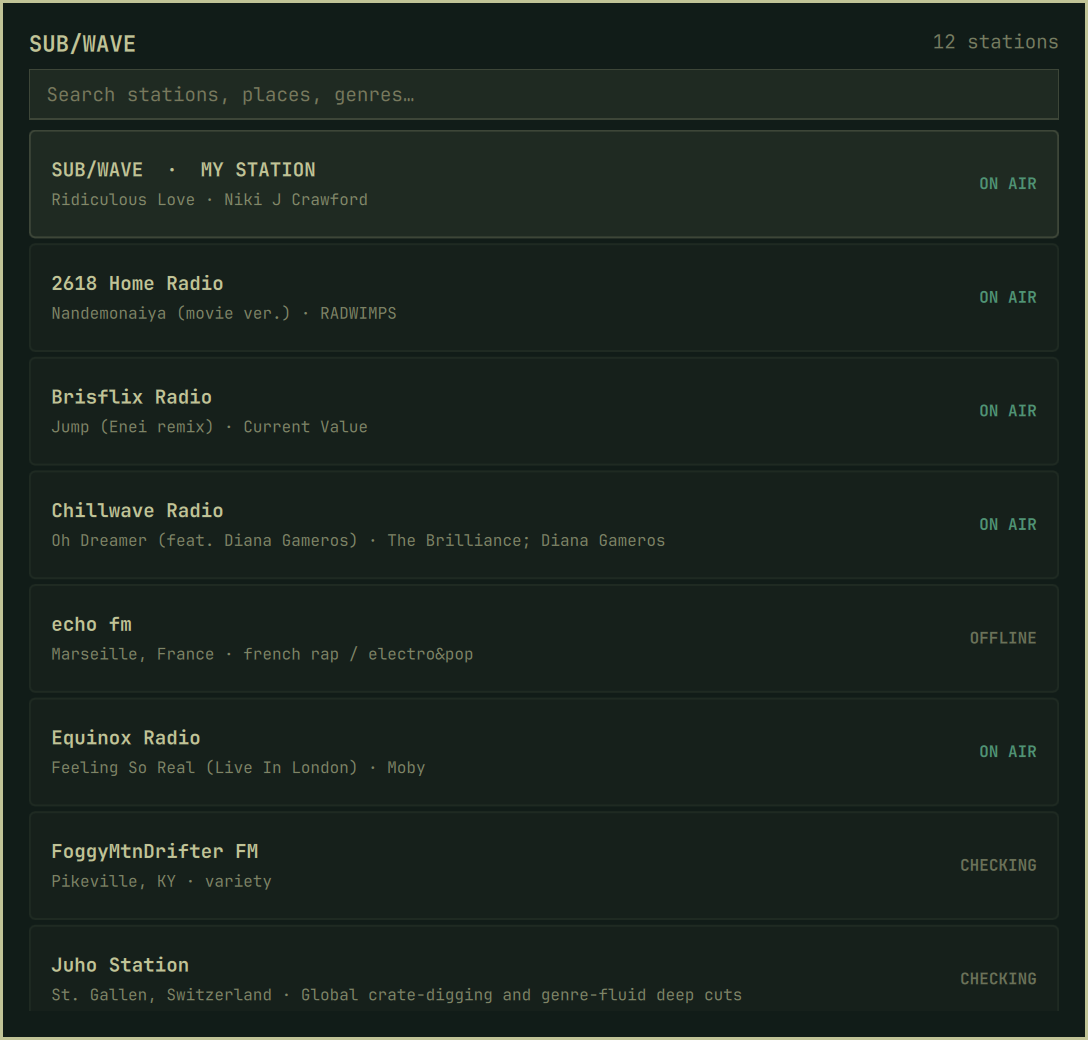
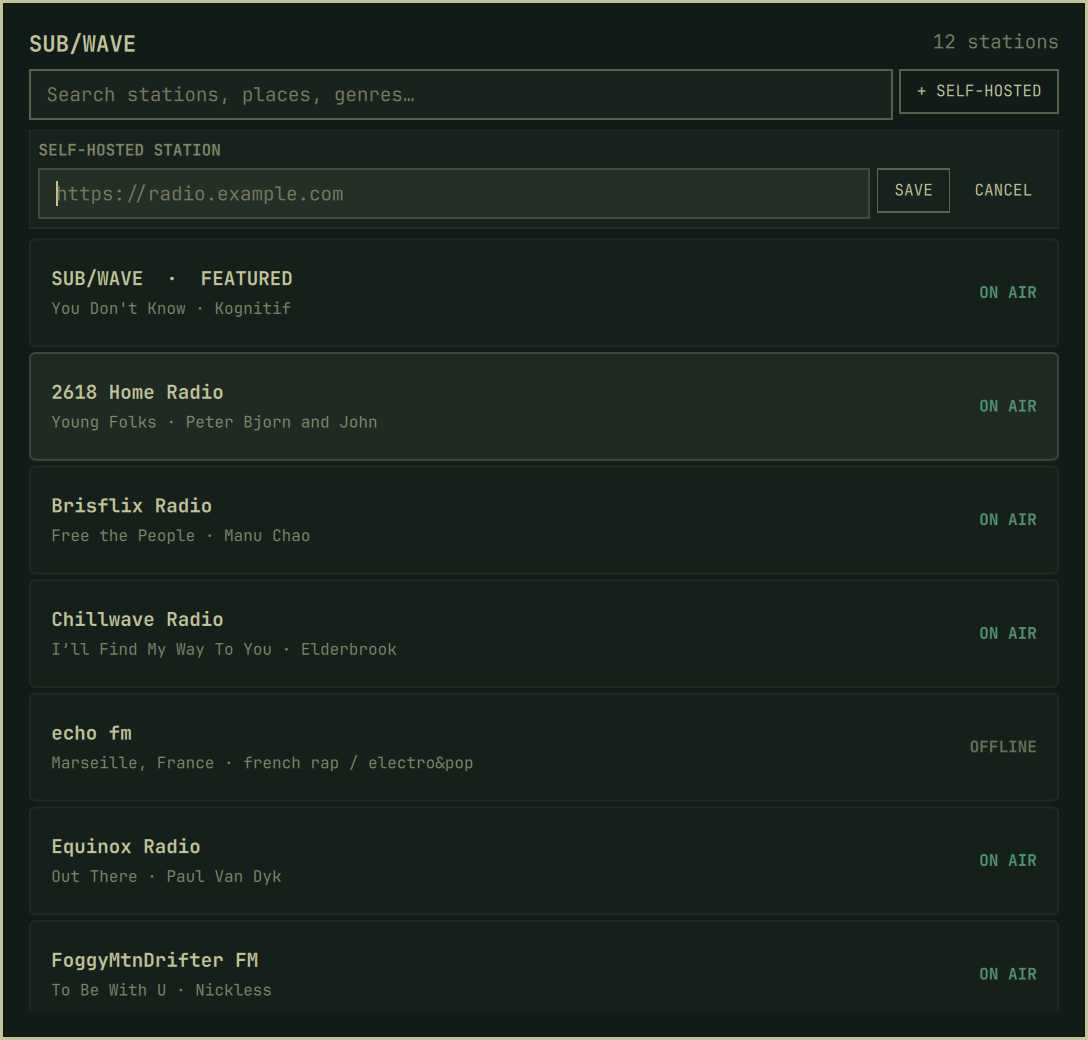
feat: configure self-hosted station in picker (#4)

diff --git a/StationPicker.qml b/StationPicker.qml
@@ -14,6 +14,10 @@ Item {
   property var manifest: null
   property bool opened: false
   property string configuredUrl: ""
+  property string configuredInput: ""
+  property bool editingConfigured: false
+  property bool savingConfigured: false
+  property string configuredError: ""
   property var allStations: []
   property string filterText: ""
   property int selectedIndex: 0
@@ -37,6 +41,10 @@ Item {
     var payload = ({})
     try { payload = JSON.parse(payloadJson || "{}") } catch (error) {}
     configuredUrl = StationModel.normalizeOrigin(payload.stationUrl || "")
+    configuredInput = configuredUrl
+    editingConfigured = false
+    savingConfigured = false
+    configuredError = ""
     opened = true
     errorText = ""
     filterText = ""
@@ -92,6 +100,44 @@ Item {
     filterText = StationModel.singleLine(value, 160)
     rebuildVisible()
     queueVisibleProbes()
+  }
+
+  function beginConfiguredEdit() {
+    configuredInput = configuredUrl
+    configuredError = ""
+    editingConfigured = true
+    Qt.callLater(function() { configuredField.forceActiveFocus() })
+  }
+
+  function cancelConfiguredEdit() {
+    configuredInput = configuredUrl
+    configuredError = ""
+    editingConfigured = false
+    Qt.callLater(function() { searchField.forceActiveFocus() })
+  }
+
+  function saveConfigured(value) {
+    if (settingProcess.running) return
+    var update = StationModel.configuredStationUpdate(value)
+    if (!update.ok) {
+      configuredError = update.error
+      return
+    }
+    configuredError = ""
+    savingConfigured = true
+    settingProcess.pendingUrl = update.url
+    settingProcess.command = update.command
+    settingProcess.running = true
+  }
+
+  function applyConfigured(url) {
+    configuredUrl = url
+    configuredInput = url
+    allStations = StationModel.mergeConfigured(allStations, configuredUrl)
+    rebuildVisible()
+    queueVisibleProbes()
+    editingConfigured = false
+    Qt.callLater(function() { searchField.forceActiveFocus() })
   }
 
   function moveSelection(delta) {
@@ -198,6 +244,19 @@ Item {
     }
   }
 
+  Process {
+    id: settingProcess
+    property string pendingUrl: ""
+    command: []
+    stdout: StdioCollector { id: settingOutput; waitForEnd: true }
+    stderr: StdioCollector { id: settingError; waitForEnd: true }
+    onExited: function(exitCode) {
+      root.savingConfigured = false
+      if (exitCode === 0) root.applyConfigured(pendingUrl)
+      else root.configuredError = StationModel.singleLine(settingError.text, 200) || "Could not save station setting"
+    }
+  }
+
   Timer {
     id: probeTimer
     interval: 30000
@@ -257,24 +316,147 @@ Item {
             horizontalAlignment: Text.AlignRight
           }
         }
-
-        TextField {
-          id: searchField
+        Row {
           width: parent.width
-          placeholderText: "Search stations, places, genres…"
-          foreground: root.foreground
-          accent: root.accent
-          font.family: Style.font.menuFamily
-          font.pixelSize: Style.font.body
-          onTextChanged: root.setFilter(text)
-          Keys.onPressed: function(event) {
-            if (event.key === Qt.Key_Down) { root.moveSelection(1); event.accepted = true }
-            else if (event.key === Qt.Key_Up) { root.moveSelection(-1); event.accepted = true }
-            else if (event.key === Qt.Key_Return || event.key === Qt.Key_Enter) { root.playSelected(); event.accepted = true }
-            else if (event.key === Qt.Key_Escape) {
-              if (text) text = ""
-              else root.dismiss()
-              event.accepted = true
+          spacing: Style.spacing.sm
+
+          TextField {
+            id: searchField
+            width: parent.width - configuredButton.width - parent.spacing
+            placeholderText: "Search stations, places, genres…"
+            foreground: root.foreground
+            accent: root.accent
+            font.family: Style.font.menuFamily
+            font.pixelSize: Style.font.body
+            onTextChanged: root.setFilter(text)
+            Keys.onPressed: function(event) {
+              if (event.key === Qt.Key_Down) { root.moveSelection(1); event.accepted = true }
+              else if (event.key === Qt.Key_Up) { root.moveSelection(-1); event.accepted = true }
+              else if (event.key === Qt.Key_Return || event.key === Qt.Key_Enter) { root.playSelected(); event.accepted = true }
+              else if (event.key === Qt.Key_Escape) {
+                if (text) text = ""
+                else root.dismiss()
+                event.accepted = true
+              }
+            }
+          }
+
+          Button {
+            id: configuredButton
+            text: root.configuredUrl ? "EDIT" : "+ SELF-HOSTED"
+            active: root.configuredUrl !== ""
+            focusable: true
+            bordered: true
+            foreground: root.foreground
+            accent: root.accent
+            fontFamily: Style.font.menuFamily
+            fontSize: Style.font.caption
+            onClicked: root.editingConfigured ? root.cancelConfiguredEdit() : root.beginConfiguredEdit()
+          }
+        }
+
+        BorderSurface {
+          visible: root.editingConfigured
+          width: parent.width
+          implicitHeight: configuredEditor.implicitHeight + Style.spacing.md * 2
+          color: Qt.rgba(root.foreground.r, root.foreground.g, root.foreground.b, 0.035)
+          radius: Style.cornerRadius
+          borderSpec: Border.flat(Qt.rgba(root.foreground.r, root.foreground.g, root.foreground.b, 0.10), 1)
+
+          Column {
+            id: configuredEditor
+            anchors.left: parent.left
+            anchors.right: parent.right
+            anchors.verticalCenter: parent.verticalCenter
+            anchors.leftMargin: Style.spacing.md
+            anchors.rightMargin: Style.spacing.md
+            spacing: Style.spacing.sm
+
+            Text {
+              width: parent.width
+              text: "SELF-HOSTED STATION"
+              color: root.foreground
+              opacity: 0.62
+              font.family: Style.font.menuFamily
+              font.pixelSize: Style.font.caption
+              font.bold: true
+            }
+
+            Row {
+              width: parent.width
+              spacing: Style.spacing.sm
+
+              TextField {
+                id: configuredField
+                width: parent.width - saveConfiguredButton.width - cancelConfiguredButton.width
+                  - (removeConfiguredButton.visible ? removeConfiguredButton.width + parent.spacing : 0)
+                  - parent.spacing * 2
+                enabled: !root.savingConfigured
+                text: root.configuredInput
+                placeholderText: "https://radio.example.com"
+                foreground: root.foreground
+                accent: root.accent
+                font.family: Style.font.menuFamily
+                font.pixelSize: Style.font.body
+                onTextChanged: root.configuredInput = text
+                Keys.onPressed: function(event) {
+                  if (event.key === Qt.Key_Return || event.key === Qt.Key_Enter) {
+                    root.saveConfigured(text)
+                    event.accepted = true
+                  } else if (event.key === Qt.Key_Escape) {
+                    root.cancelConfiguredEdit()
+                    event.accepted = true
+                  }
+                }
+              }
+
+              Button {
+                id: saveConfiguredButton
+                text: root.savingConfigured ? "SAVING" : "SAVE"
+                enabled: !root.savingConfigured
+                focusable: true
+                bordered: true
+                foreground: root.foreground
+                accent: root.accent
+                fontFamily: Style.font.menuFamily
+                fontSize: Style.font.caption
+                onClicked: root.saveConfigured(configuredField.text)
+              }
+
+              Button {
+                id: removeConfiguredButton
+                visible: root.configuredUrl !== ""
+                text: "REMOVE"
+                enabled: !root.savingConfigured
+                focusable: true
+                foreground: Color.urgent
+                accent: Color.urgent
+                fontFamily: Style.font.menuFamily
+                fontSize: Style.font.caption
+                onClicked: root.saveConfigured("")
+              }
+
+              Button {
+                id: cancelConfiguredButton
+                text: "CANCEL"
+                enabled: !root.savingConfigured
+                focusable: true
+                foreground: root.foreground
+                accent: root.accent
+                fontFamily: Style.font.menuFamily
+                fontSize: Style.font.caption
+                onClicked: root.cancelConfiguredEdit()
+              }
+            }
+
+            Text {
+              visible: root.configuredError !== ""
+              width: parent.width
+              text: root.configuredError
+              color: Color.urgent
+              font.family: Style.font.menuFamily
+              font.pixelSize: Style.font.caption
+              wrapMode: Text.Wrap
             }
           }
         }

diff --git a/StationModel.js b/StationModel.js
@@ -14,6 +14,17 @@ function normalizeOrigin(value) {
   return matched[1].toLowerCase() + "://" + matched[2]
 }
 
+function configuredStationUpdate(value) {
+  var raw = String(value || "").trim()
+  var url = raw ? normalizeOrigin(raw) : ""
+  if (raw && !url) return { ok: false, error: "Enter a bare HTTP(S) station origin" }
+  return {
+    ok: true,
+    url: url,
+    command: ["omarchy", "bar", "set", "getsubwave.radio", "stationUrl", url]
+  }
+}
+
 function fallbackSlug(name) {
   return singleLine(name, 80).toLowerCase().replace(/[^a-z0-9]+/g, "-").replace(/^-|-$/g, "").slice(0, 49)
 }
@@ -60,13 +71,18 @@ function normalizeCatalog(value) {
 }
 
 function mergeConfigured(stations, stationUrl) {
-  var rows = normalizeCatalog(stations)
+  var normalized = normalizeCatalog(stations)
+  var rows = []
+  for (var i = 0; i < normalized.length; i++) {
+    if (normalized[i].slug === "__configured") continue
+    rows.push(Object.assign({}, normalized[i], { isConfigured: false }))
+  }
   var origin = normalizeOrigin(stationUrl)
   if (!origin) return rows
-  for (var i = 0; i < rows.length; i++) {
-    if (rows[i].url !== origin) continue
-    var matched = Object.assign({}, rows[i], { isConfigured: true })
-    rows.splice(i, 1)
+  for (var matchIndex = 0; matchIndex < rows.length; matchIndex++) {
+    if (rows[matchIndex].url !== origin) continue
+    var matched = Object.assign({}, rows[matchIndex], { isConfigured: true })
+    rows.splice(matchIndex, 1)
     rows.unshift(matched)
     return rows
   }

diff --git a/README.md b/README.md
@@ -26,7 +26,8 @@ MPRIS integration, and local MPV control socket. The plugin does not install or
 modify system packages itself.
 
 The community directory works immediately. To put your own self-hosted station
-first in the list, configure its bare public origin:
+first in the list, open the picker, choose **+ SELF-HOSTED**, and save its bare
+public origin. You can configure the same setting from the terminal:
 
 ```bash
 omarchy bar set getsubwave.radio stationUrl https://radio.example.com
